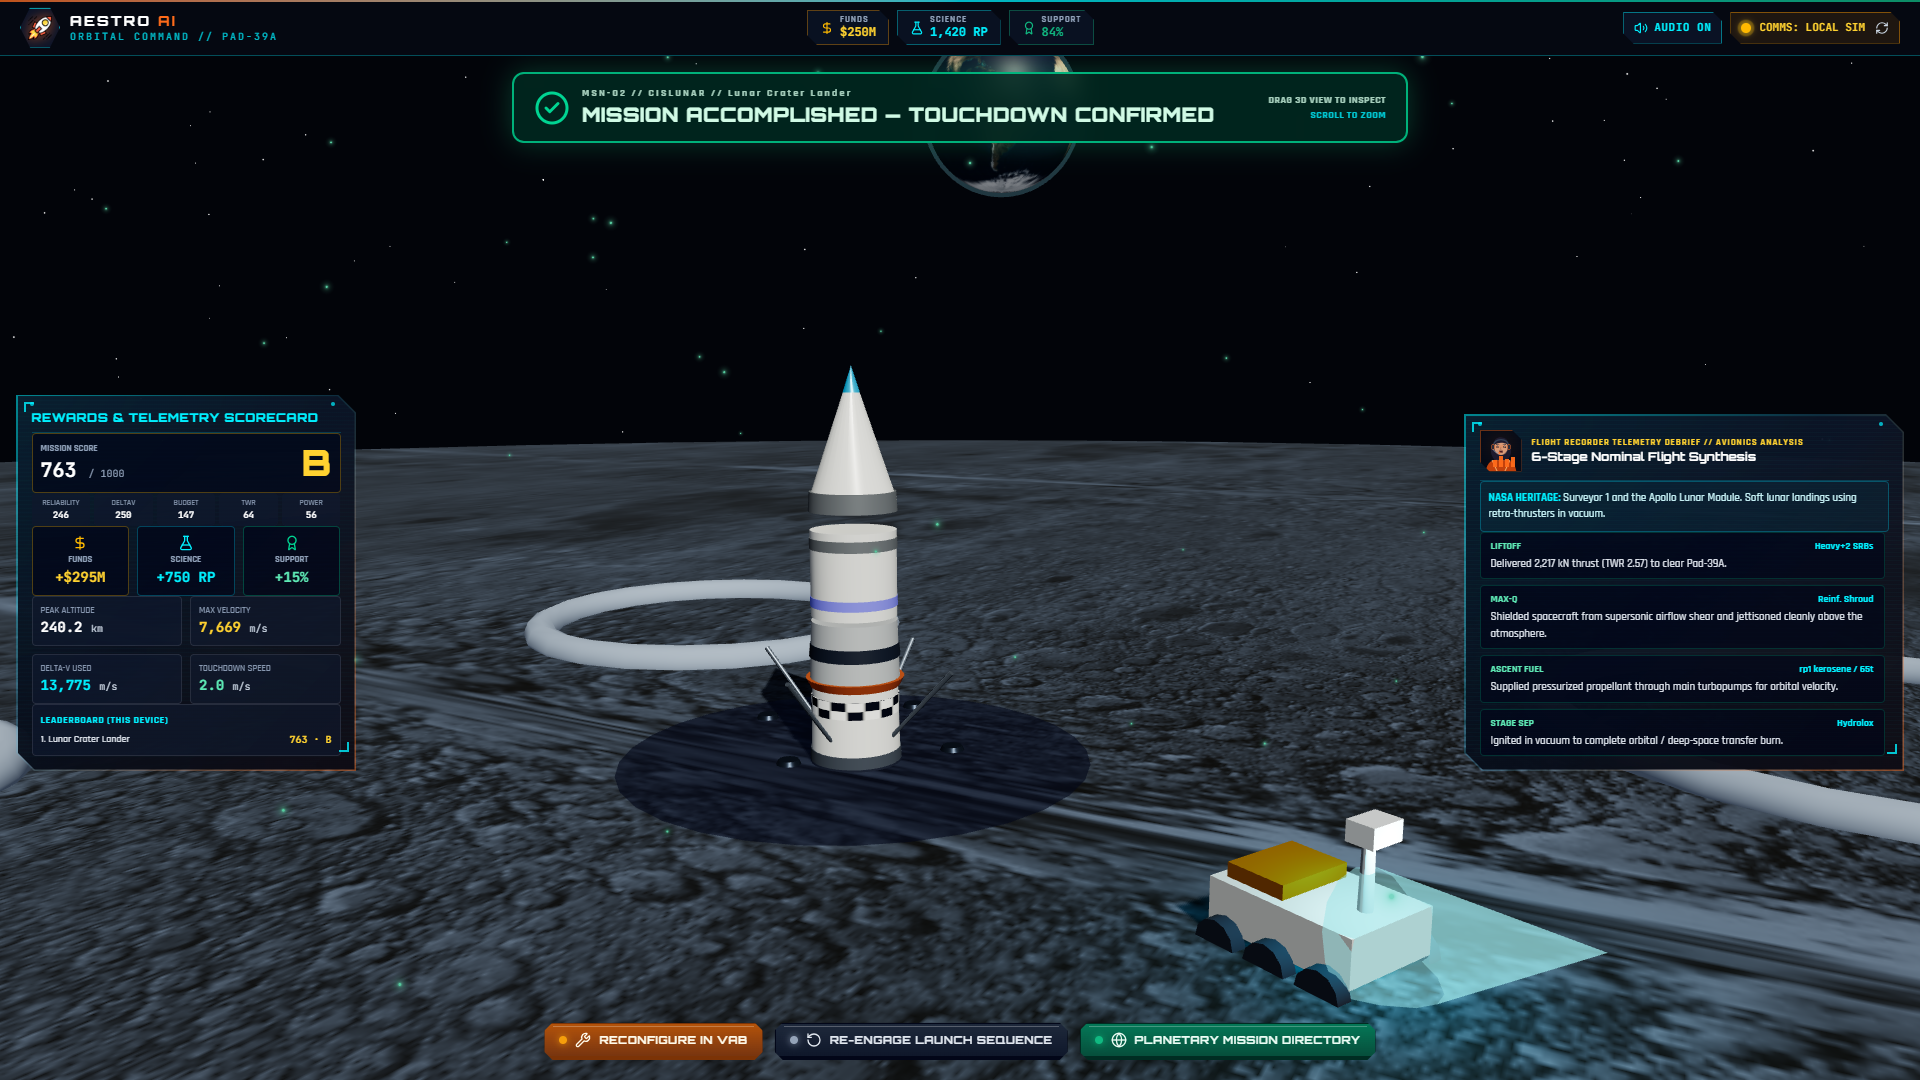
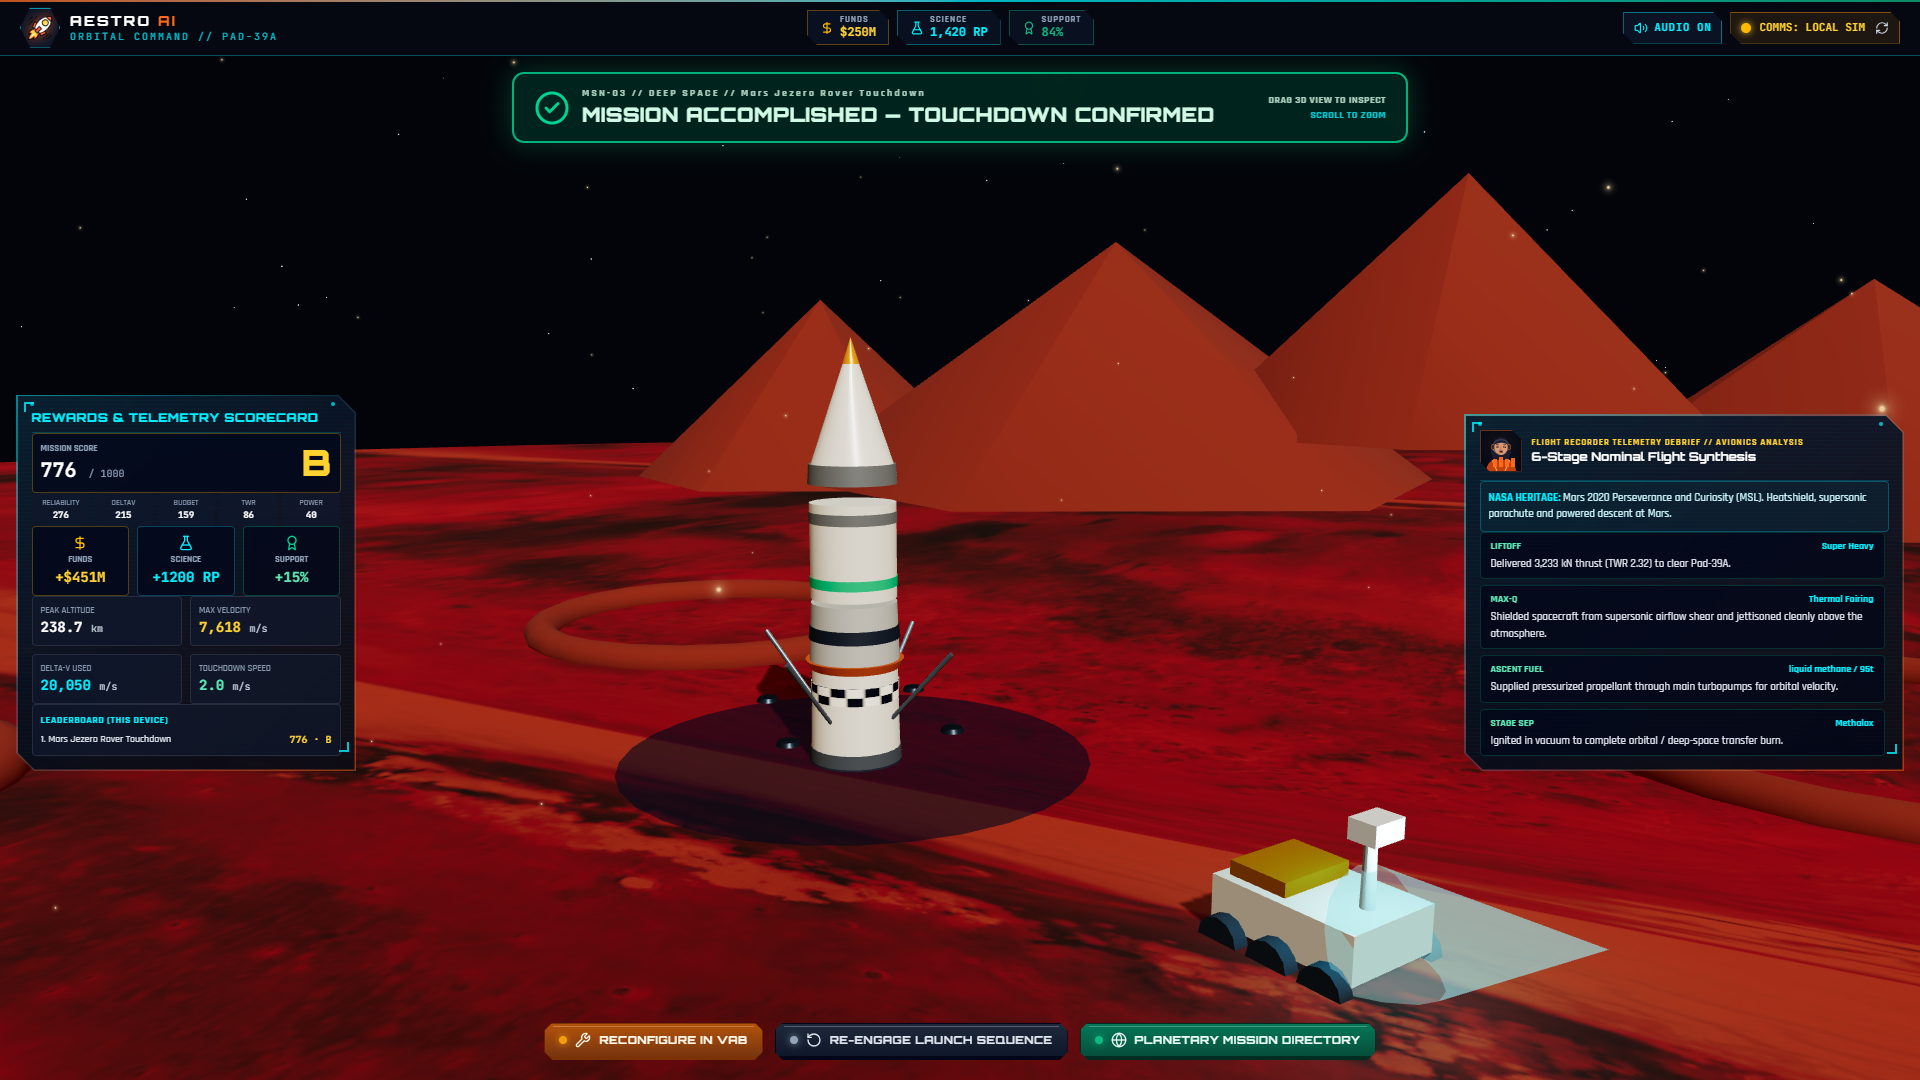
docs: Showcase 3D Mars Red Planet, Martian surface landing, and 1-4 player Team FRR console

diff --git a/README.md b/README.md
@@ -34,10 +34,10 @@ The complete mission design lifecycle in AESTRO AI:
 | ![Subsystem Tuning](screenshots/03_subsystem_configuration.jpg) | ![Martian Landing](screenshots/04_six_resource_telemetry.png) |
 | *Modular 6-slot rocket configuration inside authentic NASA KSC High-Bay VAB with interactive 3D WebGL inspection.* | *Interplanetary Mars EDL touchdown confirmed with heatshield entry, terrain exploration rover, and Perseverance lineage.* |
 
-| 05. Launchpad Staging & Countdown | 06. In-Flight Powered Ascent Telemetry |
+| 05. 3D Mars Red Planet & Deep Space Dossier | 06. In-Flight Powered Ascent Telemetry |
 |:---:|:---:|
-| ![Countdown](screenshots/05_launch_control_countdown.jpg) | ![Ascent Telemetry](screenshots/06_live_flight_telemetry.jpg) |
-| *Automated T-15s cryogenic launch sequencer with synchronized voice countdown and pad stabilization.* | *Real-time telemetry graphs: Altitude, velocity, dynamic pressure (Q), and G-force over curved Earth.* |
+| ![Mars Red Planet](screenshots/05_launch_control_countdown.jpg) | ![Ascent Telemetry](screenshots/06_live_flight_telemetry.jpg) |
+| *Interactive 3D Red Planet Mars with Olympus Mons, Valles Marineris canyon, and Jezero Crater EDL dossier.* | *Real-time telemetry graphs: Altitude, velocity, dynamic pressure (Q), and G-force over curved Earth.* |
 
 | 07. Mission Debrief & Scoring | 08. 1–4 Player Team Go/No-Go Console |
 |:---:|:---:|
